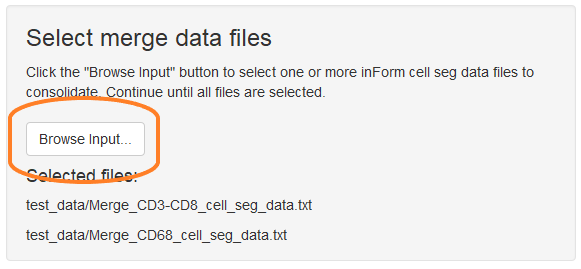
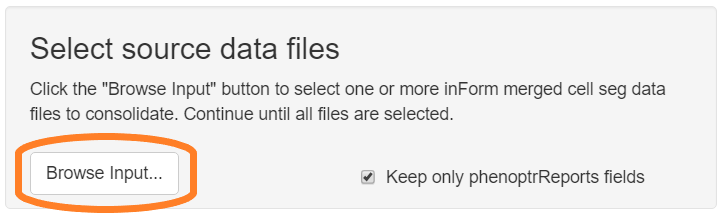
Add support for reading (and saving) only fields needed in phenoptrReports.

Changed region(s): [[0.0, 0.1111, 0.9294, 1.0]]

diff --git a/NEWS.md b/NEWS.md
@@ -1,3 +1,11 @@
+# phenoptrReports 0.2.10.9000
+
+Consolidate and summarize addin:
+- Add support for reading (and saving) only fields needed in phenoptrReports.
+
+Analysis addin:
+- Only read cell seg fields needed for the analysis.
+
 # phenoptrReports 0.2.10
 **2020-11-11**
 
